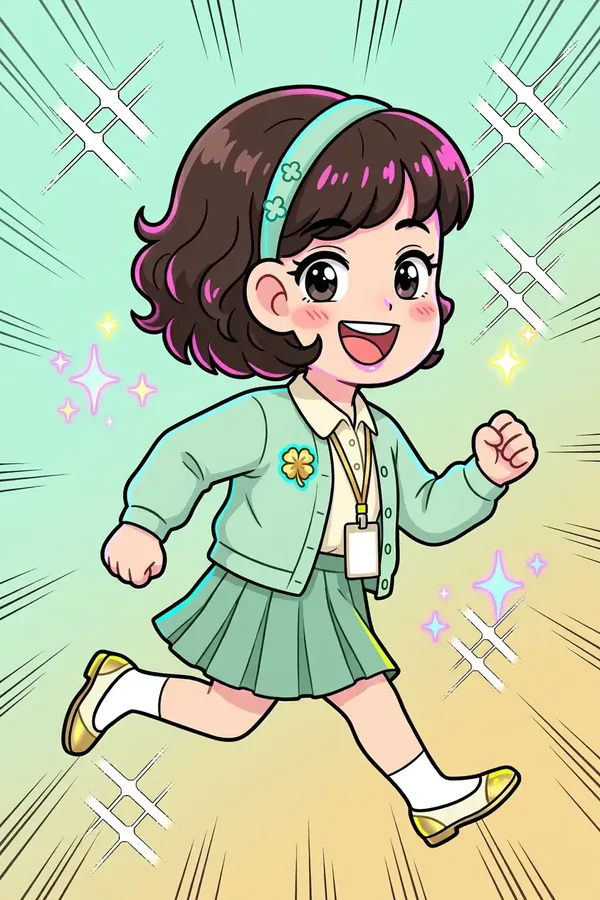
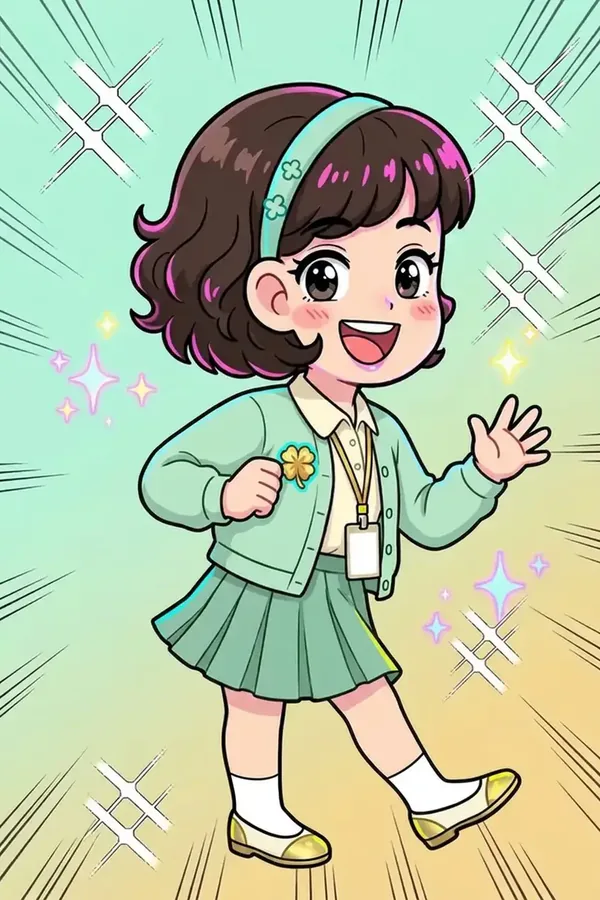
art(office): 유행운 portrait standing with the clover pin visible

diff --git a/public-office/art/SOURCES.md b/public-office/art/SOURCES.md
@@ -266,3 +266,5 @@ Ludo `animateSprite`, model **forge** (input = `hero-<id>-run1.webp`), one share
 | `hero-bunny-hit1..4` / `hero-robot-hit1..4` | 2 s | stumbles backward dizzily while still facing right in side view, wobbles, then catches balance | 1,3,5,7 / 2,5,8,11 (later frames turn) |
 
 Every shipped frame was inspected for facing: all right-facing.
+
+- `op-robot.webp` regenerated (standing pose, clover pin visible; refs: hero-robot-run1 + previous op-robot): nano_banana_flash — $STYLE. Portrait of exactly the character in the first reference image (curly brown bob, mint headband, mint cardigan, gold four-leaf-clover pin, mint pleated skirt, gold lanyard badge), in the same 2:3 framing and soft mint-gold pastel gradient background with sparkle accents as the second reference. STANDING confident pose facing three-quarter toward the viewer, one hand giving a cheerful wave or peace sign, the other hand near her chest so the gold clover pin is clearly visible, big lucky smile. Full body head to toe, centered, feet on the ground. No text.
